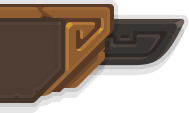
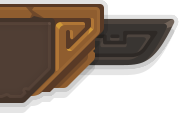
Add title to dialog

diff --git a/src/app/components/index.ts b/src/app/components/index.ts
@@ -1,32 +1,35 @@
-import { DialogComponent } from './dialog/dialog.component';
 import { BadgeComponent } from './badge/badge.component';
 import { ButtonComponent } from './button/button.component';
+import { DialogComponent } from './dialog/dialog.component';
+import { DialogFrameComponent } from './dialog/dialog-frame.component';
+import { DialogTitleComponent } from './dialog/dialog-title.component';
 import { FooterComponent } from './footer/footer.component';
 import { HeaderComponent } from './header/header.component';
+import { ItemComponent } from './item/item.component';
 import { StatusFrameComponent } from './status-frame/status-frame.component';
 import { UserStatsComponent } from './user-stats/user-stats.component';
-import { ItemComponent } from './item/item.component';
-import { DialogFrameComponent } from './dialog/dialog-frame.component';
 
 export * from './badge/badge.component';
 export * from './button/button.component';
+export * from './dialog/dialog-frame.component';
+export * from './dialog/dialog-title.component';
+export * from './dialog/dialog.component';
 export * from './footer/footer.component';
 export * from './header/header.component';
+export * from './item/item.component';
 export * from './status-frame/status-frame.component';
 export * from './user-stats/user-stats.component';
-export * from './dialog/dialog.component';
-export * from './item/item.component';
-export * from './dialog/dialog-frame.component';
 
 // prettier-ignore
 export const components = [
   BadgeComponent,
   ButtonComponent,
+  DialogComponent,
+  DialogFrameComponent,
+  DialogTitleComponent,
   FooterComponent,
   HeaderComponent,
+  ItemComponent,
   StatusFrameComponent,
   UserStatsComponent,
-  DialogComponent,
-  ItemComponent,
-  DialogFrameComponent,
 ]

diff --git a/src/app/components/dialog/dialog-title.component.scss b/src/app/components/dialog/dialog-title.component.scss
@@ -1,0 +1,36 @@
+:host {
+  --height: 60px;
+
+  background-image: url('src/assets/dialog/dialog_title_middle.png');
+  background-size: contain;
+  height: var(--height);
+  padding-left: 2rem;
+  padding-right: 2rem;
+  position: relative;
+  justify-self: center;
+  display: grid;
+  align-items: center;
+
+  &:after,
+  &:before {
+    display: block;
+    content: '';
+    background-repeat: no-repeat;
+    background-size: contain;
+    height: var(--height);
+    width: 190px;
+    position: absolute;
+    top: 0;
+  }
+
+  &:before {
+    background-position-x: right;
+    left: -190px;
+    background-image: url('src/assets/dialog/dialog_title_left.png');
+  }
+
+  &:after {
+    right: -190px;
+    background-image: url('src/assets/dialog/dialog_title_right.png');
+  }
+}

diff --git a/src/app/components/dialog/dialog.component.ts b/src/app/components/dialog/dialog.component.ts
@@ -1,8 +1,9 @@
-import { Component, OnInit } from '@angular/core';
+import { Component, OnInit, Input } from '@angular/core';
 
 @Component({
   selector: 'app-dialog',
   template: `
+    <app-dialog-title [value]="title"></app-dialog-title>
     <app-dialog-frame></app-dialog-frame>
 
     <div class="container">
@@ -14,5 +15,6 @@ import { Component, OnInit } from '@angular/core';
   styleUrls: ['dialog.component.scss']
 })
 export class DialogComponent implements OnInit {
+  @Input() public title: string | number;
   ngOnInit() {}
 }

diff --git a/src/app/components/dialog/dialog-title.component.ts b/src/app/components/dialog/dialog-title.component.ts
@@ -1,0 +1,15 @@
+import { Component, OnInit, Input } from '@angular/core';
+
+@Component({
+  selector: 'app-dialog-title',
+  template: `
+    <h2>{{ value }}</h2>
+  `,
+  styleUrls: ['dialog-title.component.scss']
+})
+export class DialogTitleComponent implements OnInit {
+  @Input() public value: string;
+  constructor() {}
+
+  ngOnInit() {}
+}

diff --git a/src/app/views/shop/shop.view.ts b/src/app/views/shop/shop.view.ts
@@ -2,8 +2,8 @@ import { Component, OnInit } from '@angular/core';
 
 @Component({
   template: `
-    <app-dialog></app-dialog>
-    <app-dialog></app-dialog>
+    <app-dialog title="Shop"></app-dialog>
+    <app-dialog title="inventory"></app-dialog>
   `,
   styleUrls: ['shop.view.scss']
 })

diff --git a/src/app/views/inventory/inventory.view.ts b/src/app/views/inventory/inventory.view.ts
@@ -2,7 +2,7 @@ import { Component, OnInit } from '@angular/core';
 
 @Component({
   template: `
-    <app-dialog>
+    <app-dialog title="Inventory">
       <app-item icon="sword_A"></app-item>
       <app-item icon="sword_A"></app-item>
       <app-item icon="sword_A"></app-item>

diff --git a/src/app/components/dialog/dialog.component.scss b/src/app/components/dialog/dialog.component.scss
@@ -2,10 +2,16 @@
   width: 100%;
   height: 100%;
   position: relative;
-  display: block;
+  display: grid;
 
   // /deep/ app-item:first-child {
   // }
+}
+
+app-dialog-title {
+  position: absolute;
+  top: -20px;
+  z-index: 2;
 }
 
 .container {

diff --git a/src/_variables.scss b/src/_variables.scss
@@ -1,4 +1,6 @@
 :root {
   --box-shadow: 6px 6px 0px 2px rgba(0, 0, 0, 0.2), 4px 4px 5px rgba(0, 0, 0, 0.2);
   --transition: all 250ms ease-out;
+  --color-beige: #ddc5ab;
+  --color-text: white;
 }

diff --git a/src/styles.scss b/src/styles.scss
@@ -39,6 +39,7 @@ h2,
 h3 {
   font-weight: bold;
   text-shadow: 4px 4px rgba(0, 0, 0, .3);
+  color: var(--color-beige);
 }
 
 h3 {

diff --git a/src/app/components/status-frame/status-frame.component.scss b/src/app/components/status-frame/status-frame.component.scss
@@ -22,7 +22,6 @@ app-button {
 }
 
 h2 {
-  color: white;
   text-align: center;
   align-self: center;
 }
